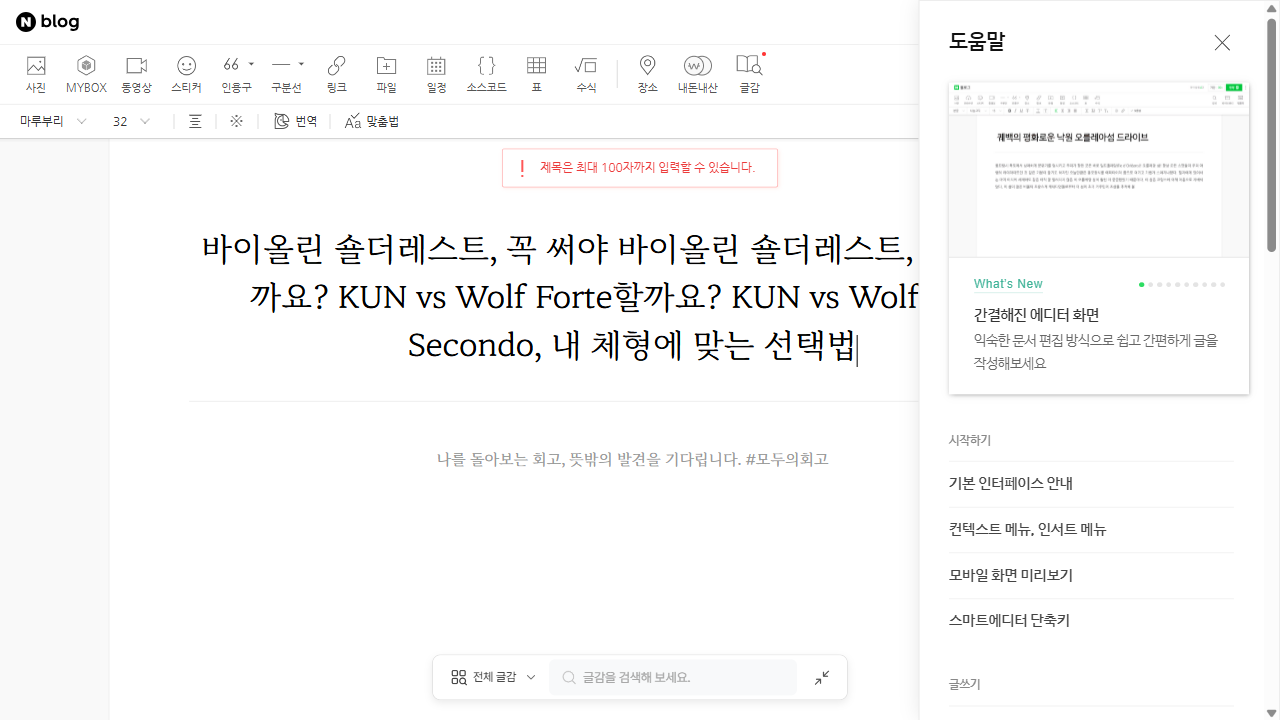
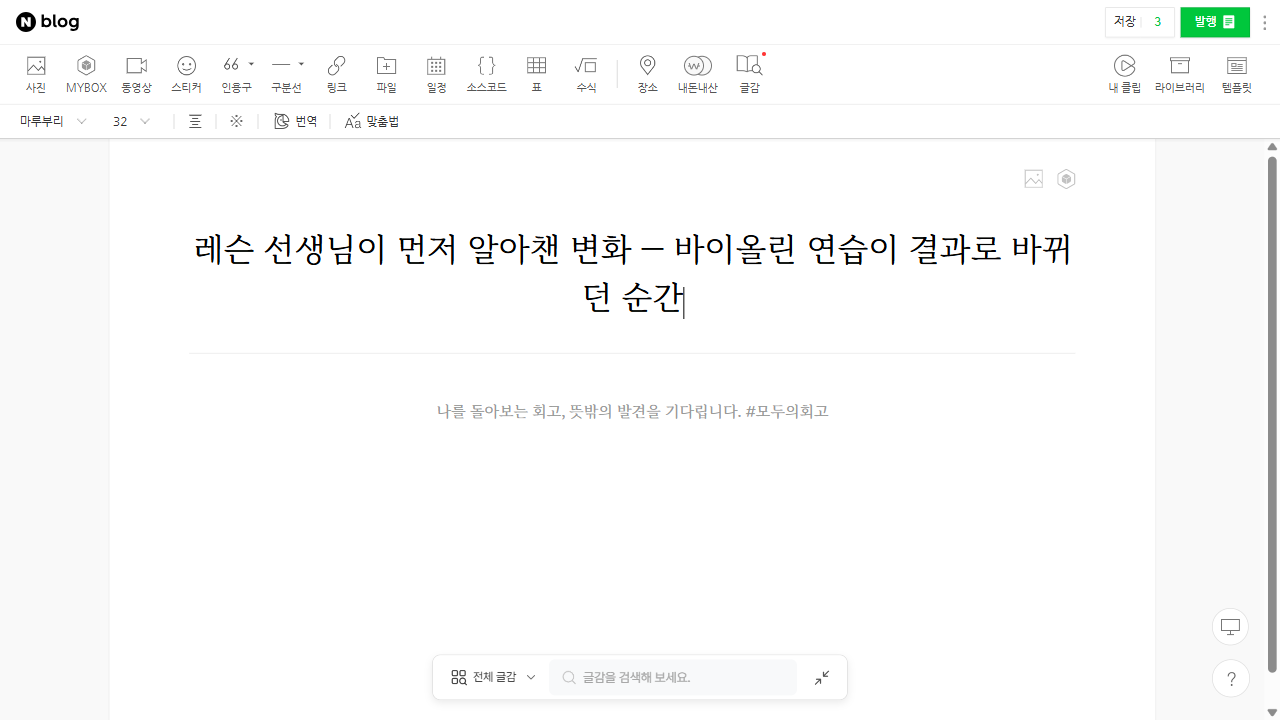
Fix Naver editor automation and auto-detect login
- save_draft.py: correct popup-cancel selector (was colliding with
  toolbar strikethrough button), close the first-run help panel that
  covered the save/publish buttons, find the body paragraph via the
  real DOM (.se-main-container never existed), and search the save
  button across all frames since it lives in a separate toolbar
  iframe. Verified end-to-end: all 3 drafts temp-saved successfully.
- login_setup.py: replace the blocking terminal Enter prompt with
  automatic login detection (polls the URL, saves session state once
  it leaves the login page, times out after 240s).
- Fix draft 2 frontmatter: a title starting with a straight quote
  broke YAML parsing.

diff --git a/scripts/save_draft.py b/scripts/save_draft.py
@@ -80,18 +80,34 @@ def main():
 
         # "작성 중인 글이 있습니다 / 이어서 작성하시겠습니까?" 팝업은 mainFrame 안에서 뜬다.
         # 취소를 눌러 이전 임시저장 내용을 버리고 새 글로 시작한다.
+        # (역할 기반 검색은 툴바의 "취소선 적용" 버튼과 이름이 겹쳐 strict mode 에러가 나므로
+        #  팝업 전용 클래스로 정확히 짚는다.)
         try:
-            cancel_btn = frame.get_by_role("button", name="취소")
-            if cancel_btn.is_visible(timeout=3000):
-                cancel_btn.click()
-                print("이어서 작성 팝업 -> 취소 클릭, 새 글로 시작")
-                frame.wait_for_timeout(1000)
+            cancel_btn = frame.locator(".se-popup-button-cancel")
+            cancel_btn.wait_for(state="visible", timeout=3000)
+            cancel_btn.click()
+            print("이어서 작성 팝업 -> 취소 클릭, 새 글로 시작")
+            frame.locator(".se-popup-dim").wait_for(state="hidden", timeout=5000)
+            frame.wait_for_timeout(500)
         except Exception as e:
             print(f"이어서 작성 팝업 없음 또는 처리 실패: {e}")
 
+        # 우측 "도움말" 패널이 열려 있으면 저장/발행 버튼이 있는 자리를 덮어버리므로 먼저 닫는다.
+        # (페이지 레벨 UI라 mainFrame 밖에 있음. 닫기 버튼이 항상 우상단 고정 위치에 뜬다.)
+        try:
+            help_close = page.get_by_role("button", name="닫기")
+            help_close.first.click(timeout=3000)
+            page.wait_for_timeout(300)
+            print("도움말 패널 닫음")
+        except Exception:
+            try:
+                page.mouse.click(1222, 42)
+                page.wait_for_timeout(300)
+                print("도움말 패널 닫음 (좌표 클릭)")
+            except Exception as e:
+                print(f"도움말 패널 닫기 실패(무시하고 진행): {e}")
+
         page.screenshot(path=str(ROOT / "debug_01_frame_loaded.png"))
-        print(f".se-title-text .se-text-paragraph 개수: {frame.locator('.se-title-text .se-text-paragraph').count()}")
-        print(f".se-main-container .se-text-paragraph 개수: {frame.locator('.se-main-container .se-text-paragraph').count()}")
 
         # 제목 입력 — 바깥 컨테이너가 아니라 실제 커서가 들어가는 안쪽 문단 요소를 클릭해야 한다.
         # 이어서 작성 팝업을 취소해도 에디터에 잔존 텍스트가 남아있을 수 있으므로,
@@ -108,9 +124,12 @@ def main():
             print(f"제목 입력 중 문제 발생: {e}")
         page.screenshot(path=str(ROOT / "debug_02_after_title.png"))
 
-        # 본문 입력: 제목과 마찬가지로 안쪽 문단 요소(.se-text-paragraph)를 직접 클릭해서 포커스를 준다.
+        # 본문 입력: ".se-main-container"는 이 에디터 버전에 존재하지 않는다(진단 결과 0개).
+        # 프레임 전체에서 .se-text-paragraph는 정확히 2개뿐이며(제목 1개 + 본문 1개),
+        # 제목이 먼저 나오므로 마지막 요소가 본문 문단이다.
         try:
-            body_para = frame.locator(".se-main-container .se-text-paragraph").first
+            body_para = frame.locator(".se-text-paragraph").last
+            body_para.wait_for(state="visible", timeout=8000)
             body_para.click(timeout=5000)
             page.wait_for_timeout(300)
             page.keyboard.press("Control+a")
@@ -129,19 +148,31 @@ def main():
         page.screenshot(path=str(ROOT / "debug_04_before_save.png"), full_page=True)
 
         # 저장(임시저장) 버튼 클릭 — 상단 헤더의 "저장" 버튼(발행 버튼과는 다름).
+        # 이 버튼은 mainFrame이 아니라 별도의 상단 툴바 iframe 안에 있을 수 있으므로
+        # page 레벨과 모든 하위 프레임을 차례로 시도한다.
         saved = False
-        try:
-            save_btn = page.get_by_role("button", name=re.compile("^저장"))
-            save_btn.first.click(timeout=5000)
-            saved = True
-        except Exception as e:
-            print(f"'저장' 버튼(role=button) 클릭 실패: {e}")
+        candidates = [("page", page)] + [(f"frame[{i}]:{f.url}", f) for i, f in enumerate(page.frames)]
+        for label, target in candidates:
             try:
-                save_btn = page.locator("text=저장").first
-                save_btn.click(timeout=5000)
+                save_btn = target.get_by_role("button", name=re.compile("^저장"))
+                save_btn.first.click(timeout=3000)
                 saved = True
-            except Exception as e2:
-                print(f"'저장' 텍스트 클릭도 실패: {e2}")
+                print(f"'저장' 버튼 클릭 성공 ({label})")
+                break
+            except Exception:
+                continue
+
+        if not saved:
+            print("'저장' 버튼(role=button) 클릭 실패 — text 셀렉터로 재시도")
+            for label, target in candidates:
+                try:
+                    save_btn = target.locator(".se-toolbar-button:has-text('저장'), button:has-text('저장')").first
+                    save_btn.click(timeout=3000)
+                    saved = True
+                    print(f"'저장' 텍스트 클릭 성공 ({label})")
+                    break
+                except Exception:
+                    continue
 
         page.wait_for_timeout(1500)
         page.screenshot(path=str(ROOT / "debug_05_after_save.png"), full_page=True)

diff --git a/scripts/login_setup.py b/scripts/login_setup.py
@@ -7,10 +7,14 @@
     .venv\\Scripts\\python.exe scripts\\login_setup.py
 """
 
+import sys
+import time
 from pathlib import Path
 from playwright.sync_api import sync_playwright
 
 SESSION_FILE = Path(__file__).resolve().parent.parent / "naver_session.json"
+MAX_WAIT_SECONDS = 240
+POLL_SECONDS = 3
 
 
 def main():
@@ -22,8 +26,26 @@ def main():
 
         print("\n브라우저 창에서 직접 네이버 아이디/비밀번호로 로그인해주세요.")
         print("2단계 인증(휴대폰 인증 등)이 있다면 그것도 마쳐주세요.")
-        print("로그인이 완료되어 네이버 메인/블로그 화면이 보이면, 이 터미널로 돌아와 Enter를 눌러주세요.")
-        input("로그인 완료 후 Enter >> ")
+        print(f"터미널 입력 없이 자동으로 감지합니다 (최대 {MAX_WAIT_SECONDS}초 대기).")
+        sys.stdout.flush()
+
+        waited = 0
+        logged_in = False
+        while waited < MAX_WAIT_SECONDS:
+            page.wait_for_timeout(POLL_SECONDS * 1000)
+            waited += POLL_SECONDS
+            url = page.url
+            if "nidlogin" not in url and "nid.naver.com" not in url:
+                logged_in = True
+                print(f"[{waited}s] 로그인 완료 감지 (현재 URL: {url})")
+                sys.stdout.flush()
+                break
+            if waited % 15 == 0:
+                print(f"[{waited}s] 로그인 대기 중... (현재 URL: {url})")
+                sys.stdout.flush()
+
+        if not logged_in:
+            print(f"\n{MAX_WAIT_SECONDS}초 동안 로그인 완료를 감지하지 못했습니다. 그래도 현재 세션 상태를 저장합니다.")
 
         context.storage_state(path=str(SESSION_FILE))
         print(f"\n로그인 세션을 저장했습니다: {SESSION_FILE}")

diff --git a/drafts/2026-08-08-바이올린연습-2편.md b/drafts/2026-08-08-바이올린연습-2편.md
@@ -1,5 +1,5 @@
 ---
-title: '듣는 연습'은 어떻게 하는 걸까요 — 바이올린 실력을 바꾸는 4가지 구체적 방법
+title: "'듣는 연습'은 어떻게 하는 걸까요 — 바이올린 실력을 바꾸는 4가지 구체적 방법"
 keyword: 바이올린 연습
 series: 바이올린 연습 3부작
 part: 2
